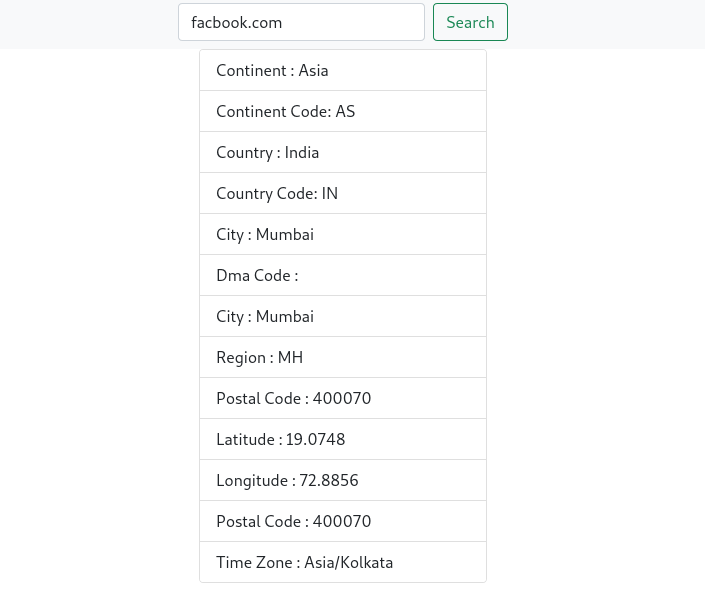
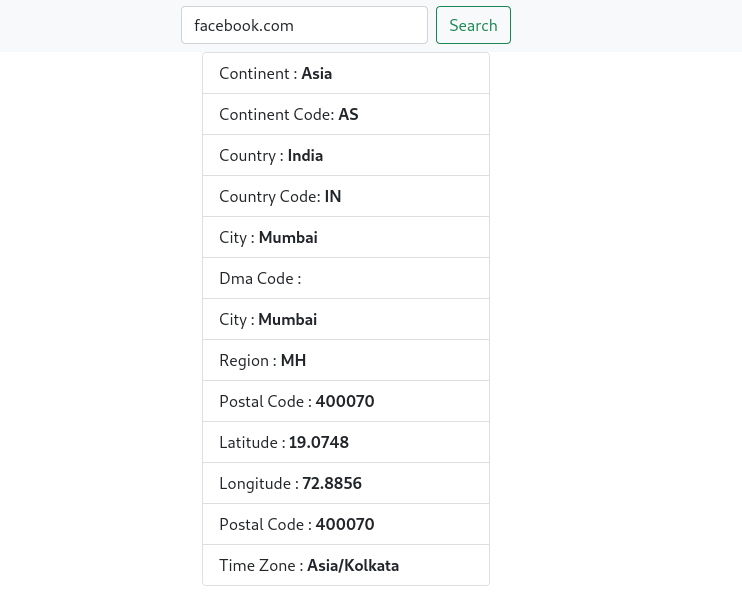
added changes

diff --git a/ip-location/src/App.js b/ip-location/src/App.js
@@ -46,19 +46,19 @@ function App() {
         <div className="card" style={{width: "18rem"}}>
           <ul className="list-group list-group-flush">
           {/* {JSON.stringify(data)} */}
-          <li className="list-group-item">Continent : {data.continent_name}</li>
-          <li className="list-group-item">Continent Code: {data.continent_code}</li>
-            <li className="list-group-item">Country : {data.country_name}</li>
-            <li className="list-group-item">Country Code: {data.country_code}</li>
-            <li className="list-group-item">City : {data.city}</li>
-            <li className="list-group-item">Dma Code : {data.dma_code}</li>
-            <li className="list-group-item">City : {data.city}</li>
-            <li className="list-group-item">Region : {data.region}</li>
-            <li className="list-group-item">Postal Code : {data.postal_code}</li>
-            <li className="list-group-item">Latitude : {data.latitude}</li>
-            <li className="list-group-item">Longitude : {data.longitude}</li>
-            <li className="list-group-item">Postal Code : {data.postal_code}</li>
-            <li className="list-group-item">Time Zone : {data.time_zone}</li>
+          <li className="list-group-item">Continent : <b>{data.continent_name}</b></li>
+          <li className="list-group-item">Continent Code: <b>{data.continent_code}</b></li>
+            <li className="list-group-item">Country : <b>{data.country_name}</b></li>
+            <li className="list-group-item">Country Code: <b>{data.country_code}</b></li>
+            <li className="list-group-item">City : <b>{data.city}</b></li>
+            <li className="list-group-item">Dma Code : <b>{data.dma_code}</b></li>
+            <li className="list-group-item">City :<b> {data.city}</b></li>
+            <li className="list-group-item">Region : <b>{data.region}</b></li>
+            <li className="list-group-item">Postal Code : <b>{data.postal_code}</b></li>
+            <li className="list-group-item">Latitude : <b>{data.latitude}</b></li>
+            <li className="list-group-item">Longitude : <b>{data.longitude}</b></li>
+            <li className="list-group-item">Postal Code : <b>{data.postal_code}</b></li>
+            <li className="list-group-item">Time Zone : <b>{data.time_zone}</b></li>
           </ul>
         </div>
       </div>

diff --git a/app/views.py b/app/views.py
@@ -6,8 +6,11 @@ from django.contrib.gis.geoip2 import GeoIP2
 
 def ip2_loc(request):
     data = {}
-    q = request.GET.get("ip") or request.META.get("REMOTE_ADDR") or "google.com"
-    if q:
-        g = GeoIP2()
-        data = g.city(q)
+    try:
+        q = request.GET.get("ip") or request.META.get("REMOTE_ADDR") or "google.com"
+        if q:
+            g = GeoIP2()
+            data = g.city(q)
+    except:
+        print("Exception need to handle")
     return JsonResponse(data)
